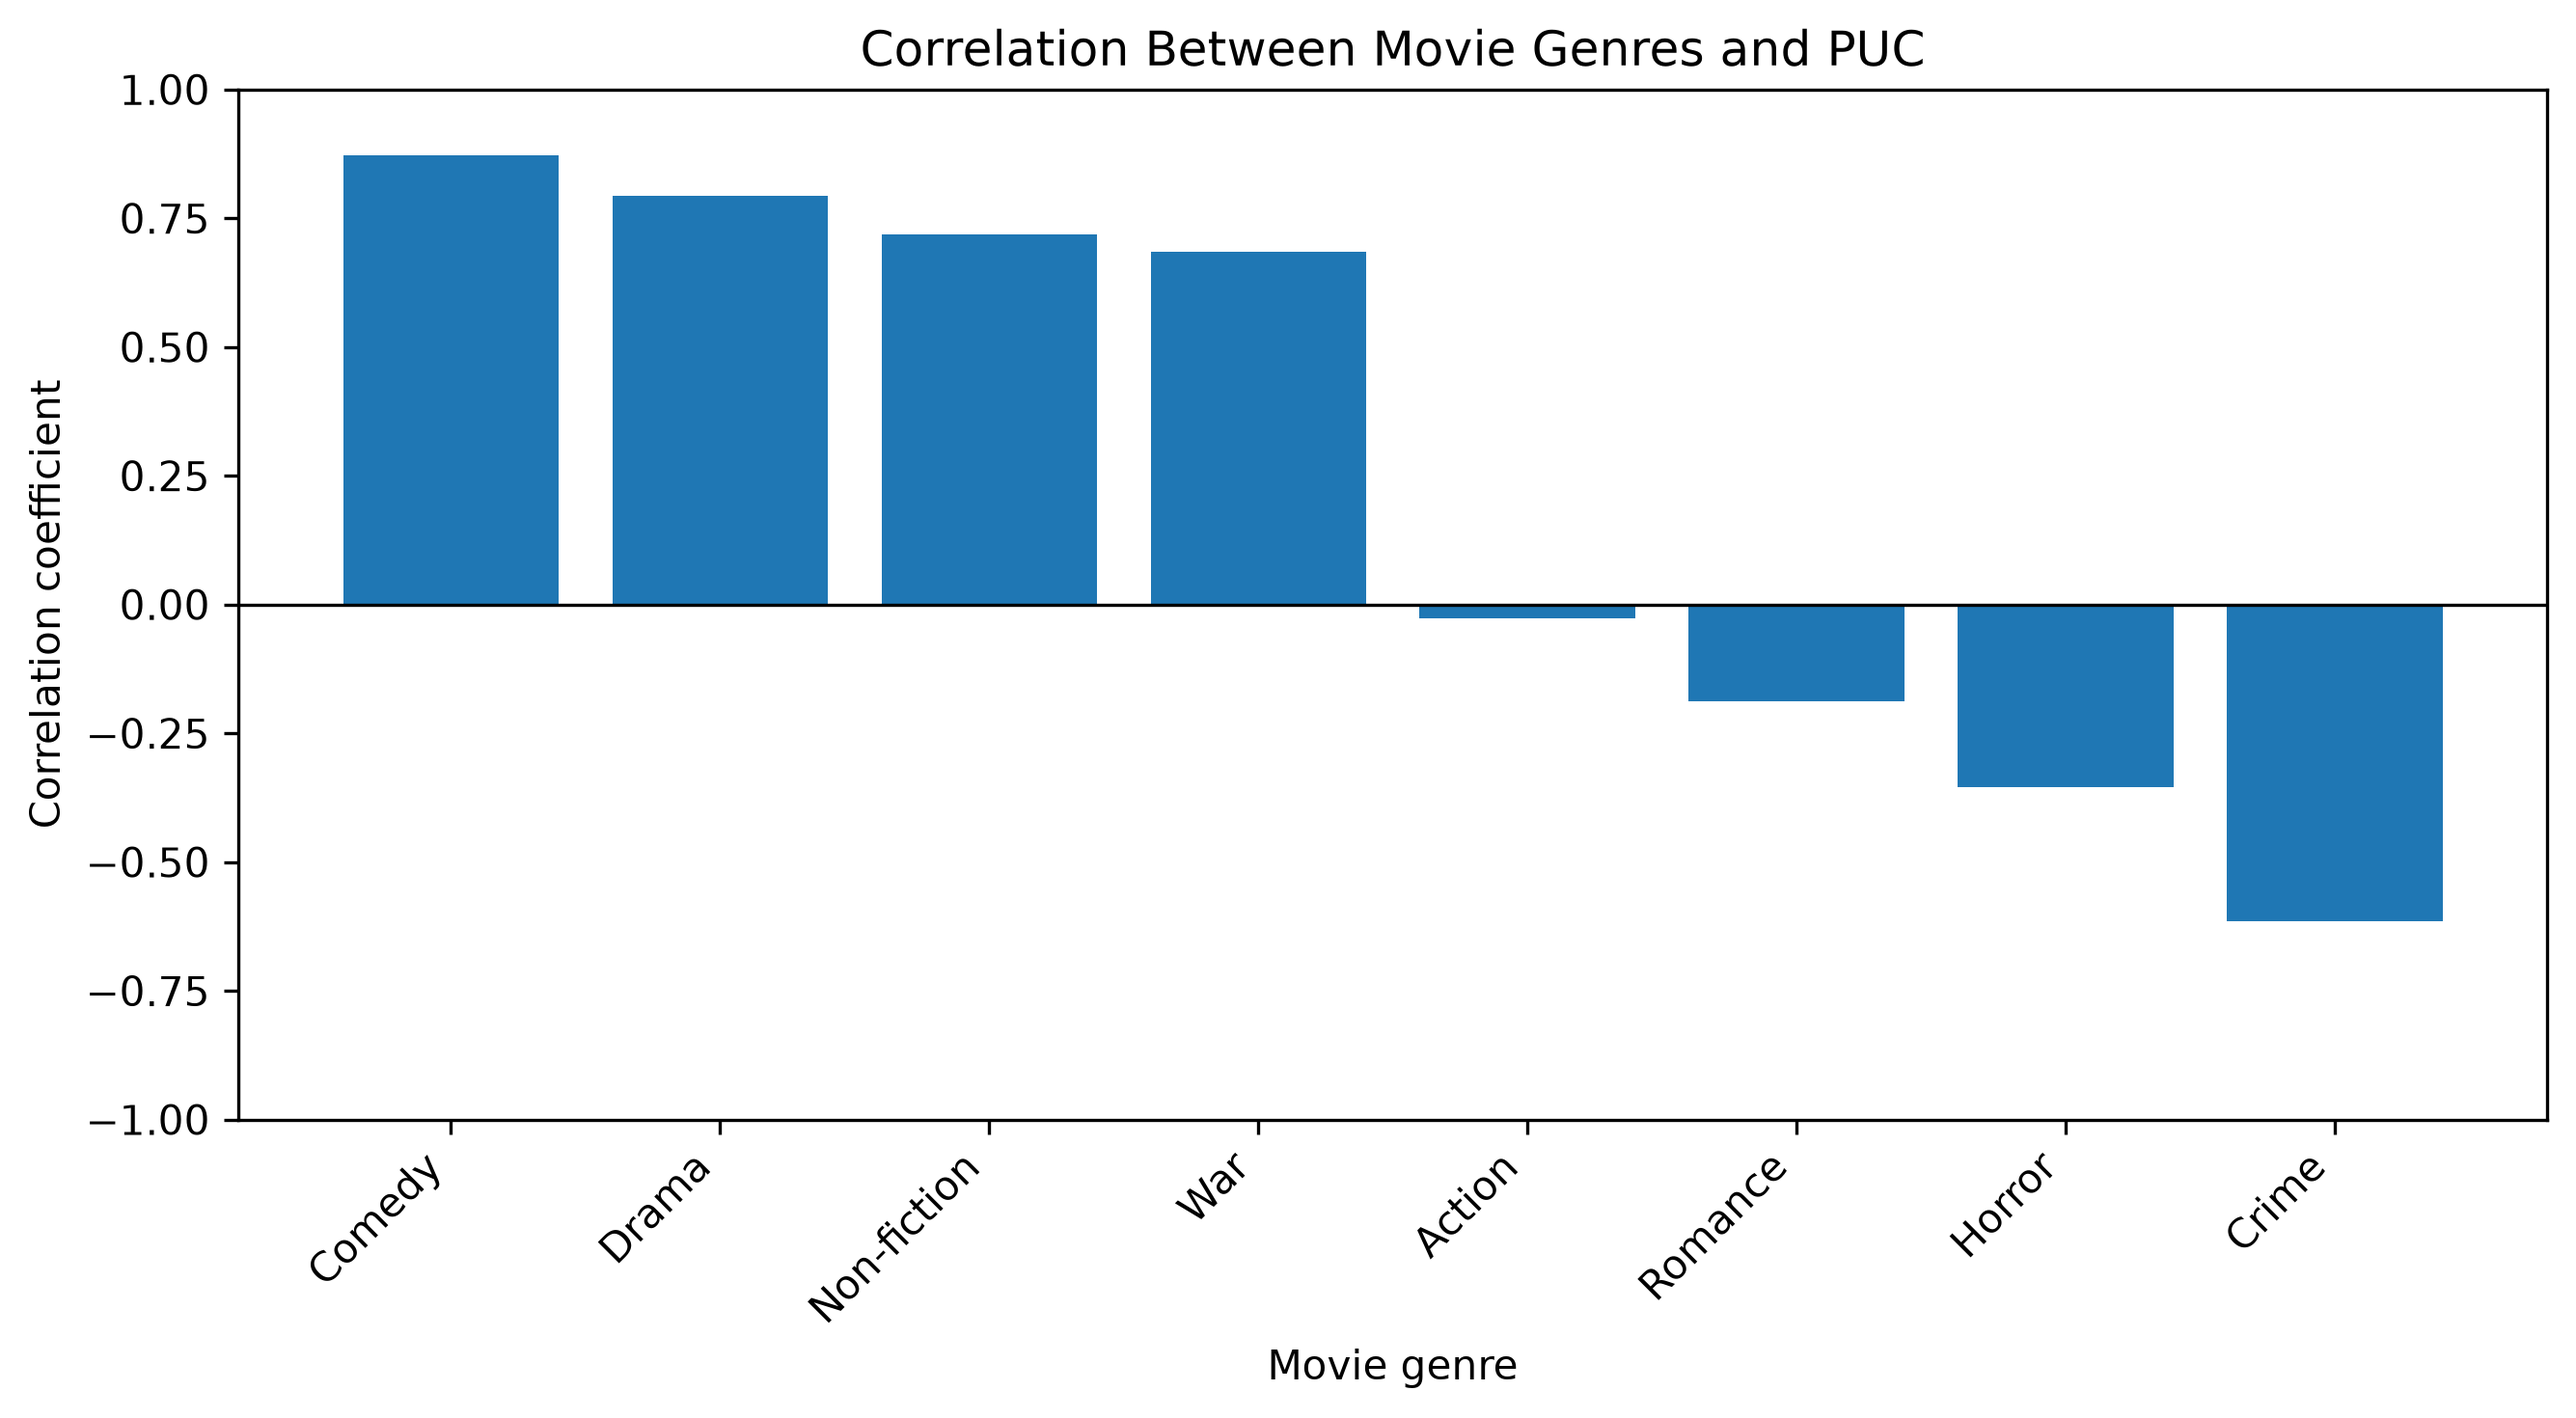
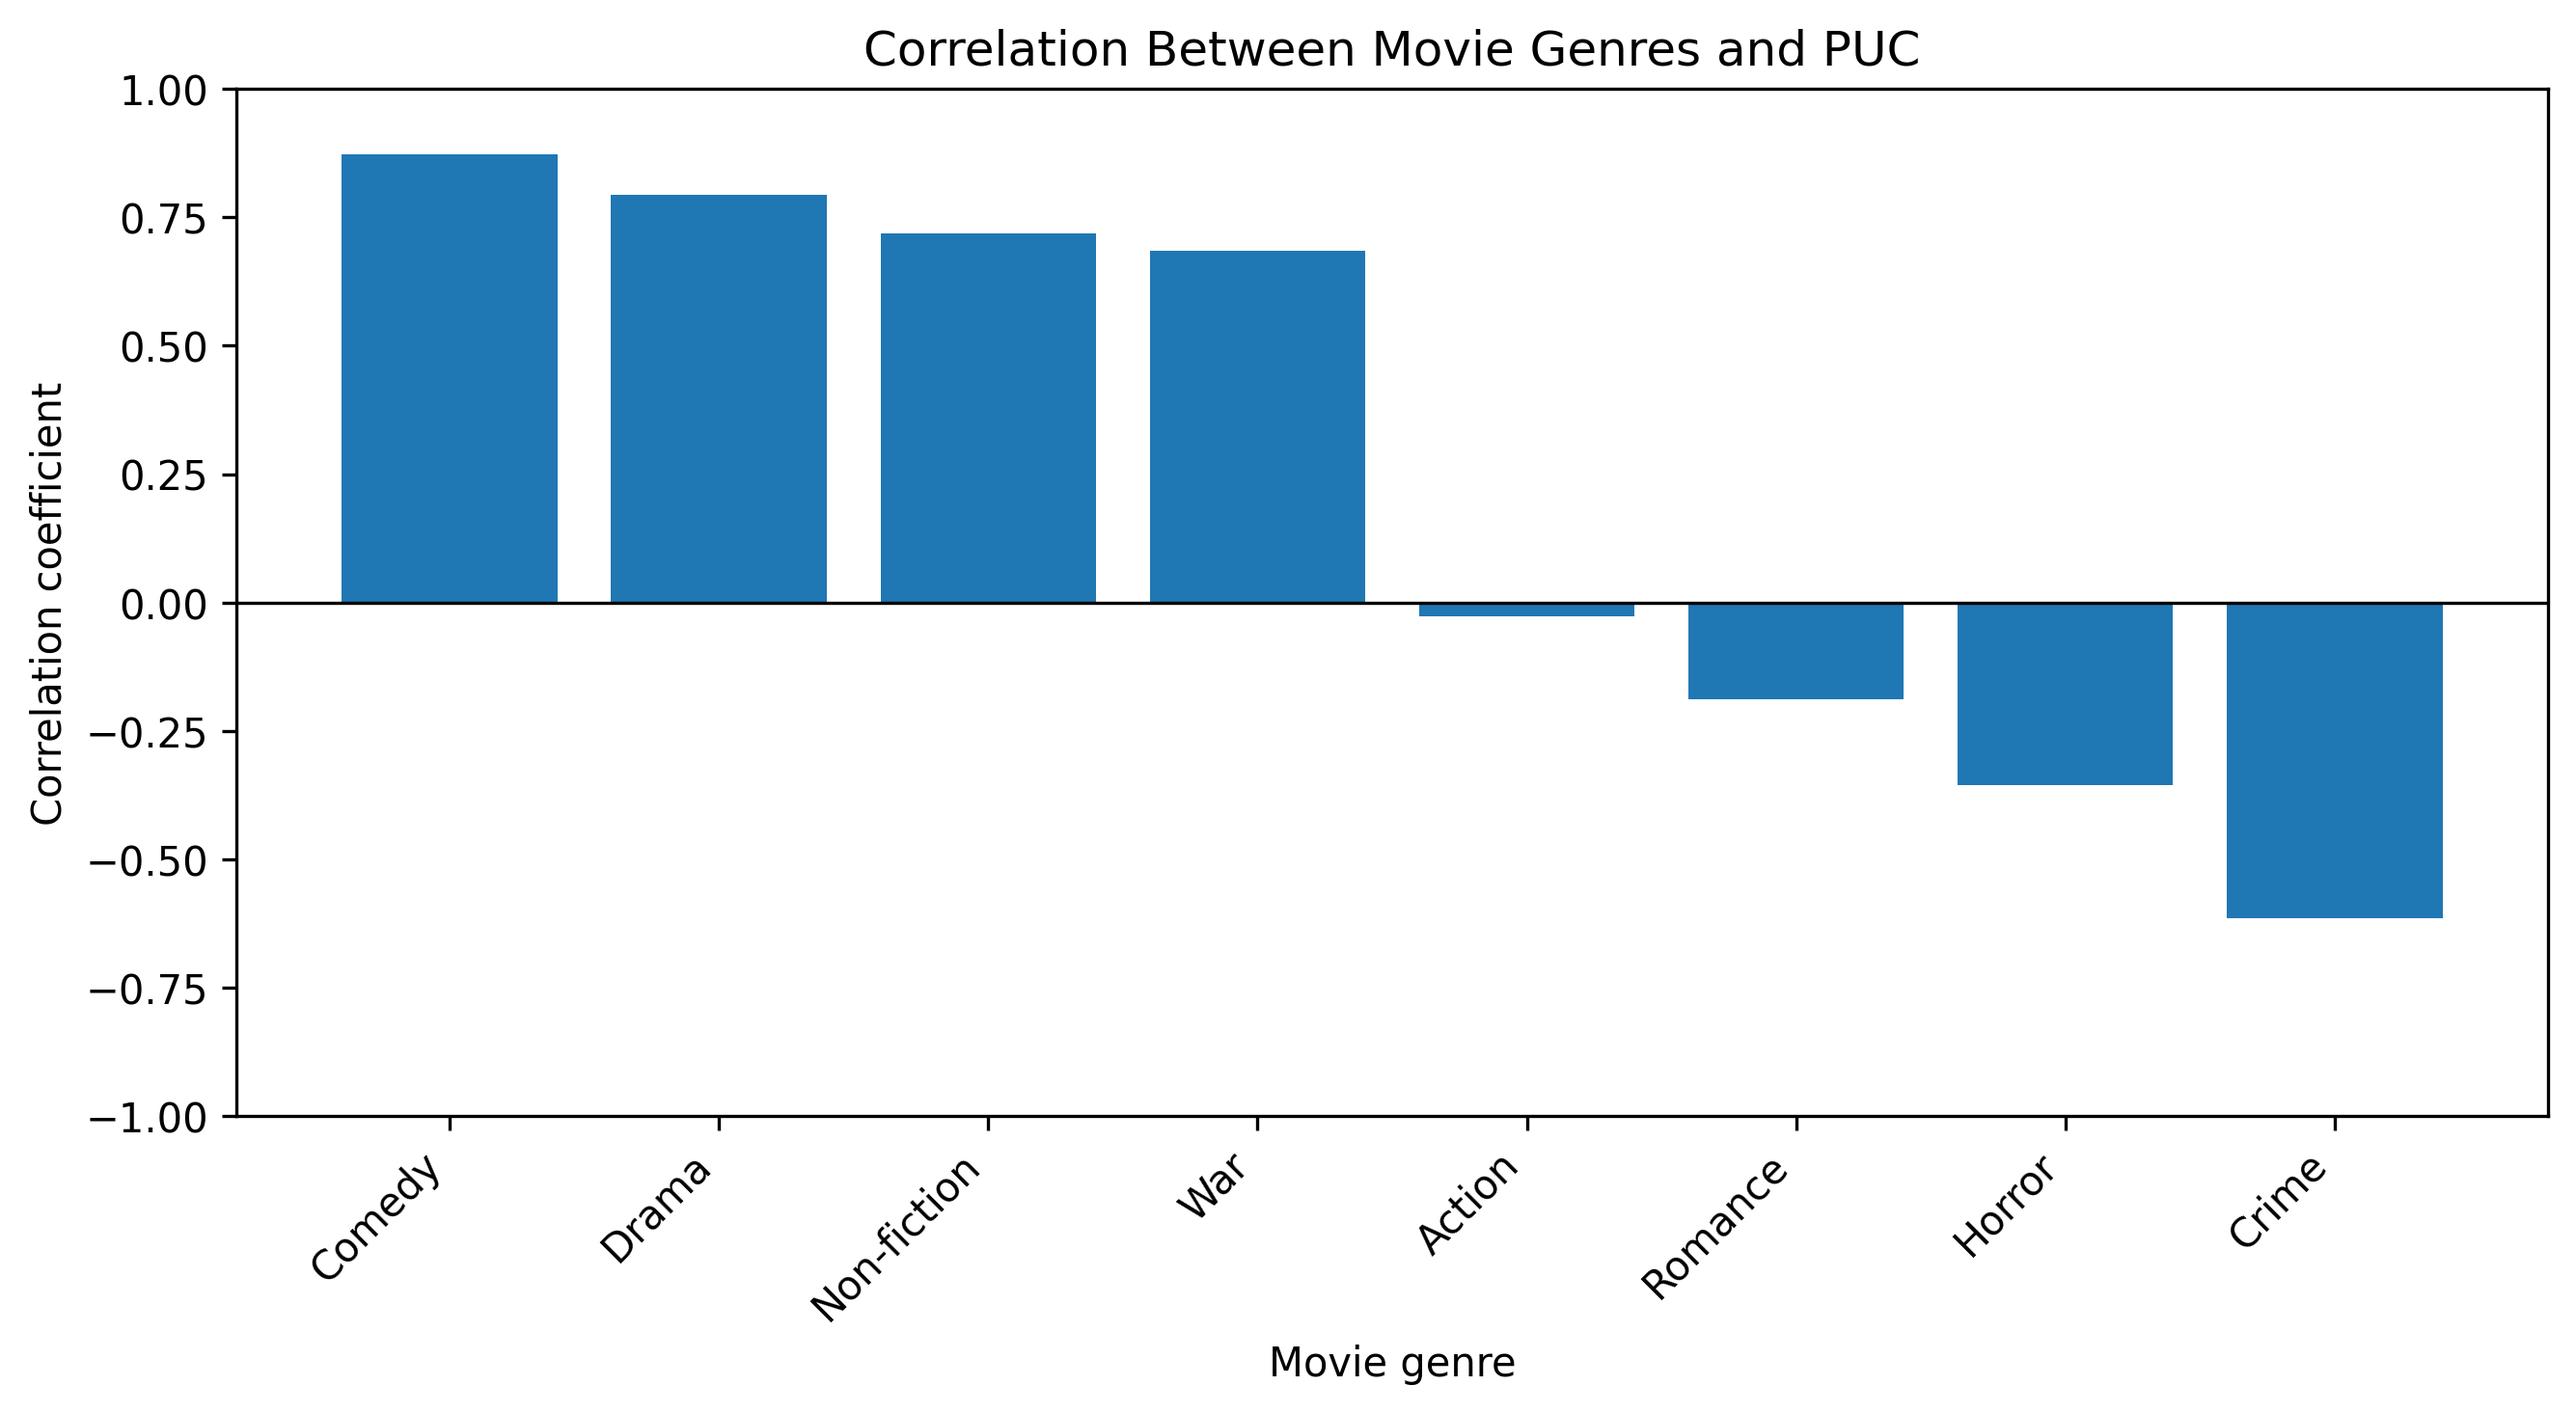
Editting the file path to be uniform

diff --git a/correlation/correlation_calculation_files/with_puc.py b/correlation/correlation_calculation_files/with_puc.py
@@ -1,8 +1,8 @@
 import matplotlib.pyplot as plt
 import pandas as pd
 
-puc = pd.read_csv("../../data/organized_data/puc_2001_2012.csv")
-movies = pd.read_csv("../../data/organized_data/movies.csv")
+puc = pd.read_csv("data/organized_data/puc_2001_2012.csv")
+movies = pd.read_csv("data/organized_data/movies.csv")
 
 full = movies.merge(puc, on="Year", how="inner")
 genres = [col for col in movies.columns if col != "Year"]
@@ -16,7 +16,7 @@ correlations = (
 # Save the correlation for each genre
 correlation_file = correlations.rename_axis("genre").reset_index(name="Correlation")
 correlation_file.round(3).to_csv(
-    "../correlation_results/with_puc.csv",
+    "correlation/correlation_results/with_puc.csv",
     index=False
 )
 
@@ -33,7 +33,7 @@ plt.ylim(-1, 1)
 plt.tight_layout()
 
 plt.savefig(
-    "../graphs/movie_genre_puc_correlation.png",
+    "correlation/graphs/movie_genre_puc_correlation.png",
     dpi=300,
     bbox_inches="tight"
 )
